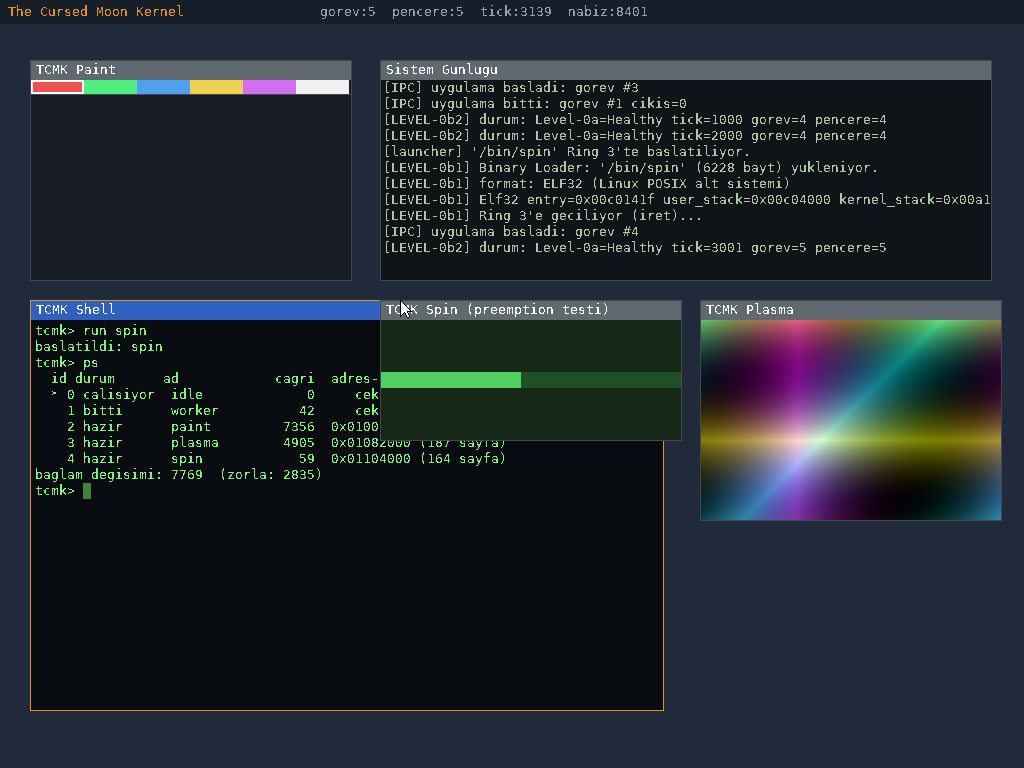
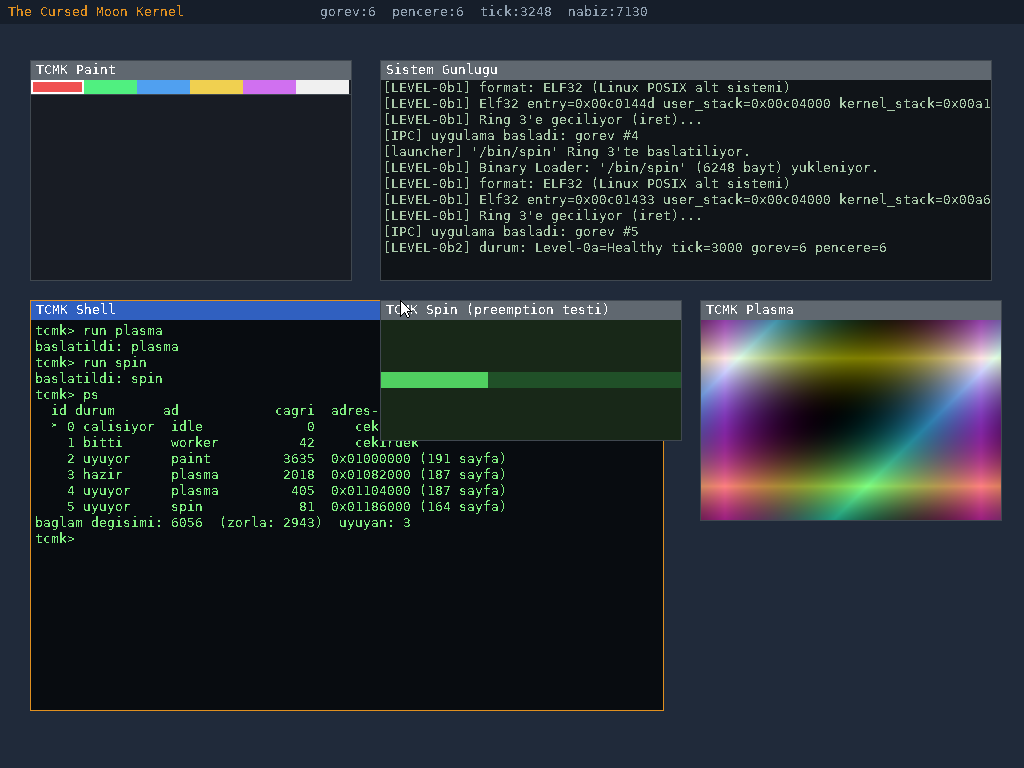
Uyku durumu: TaskState::Blocked + sleep(ms) sistem cagrisi
Preemption CPU'yu adil bolusturuyor ama uygulamalarin ISTEMEDIGI zamani
geri vermiyordu: sadece `flush` cagiran bir GUI dongusu sirasi geldiginde
hemen bir kare daha ciziyor, yani ekranin yenilenme hizindan bagimsiz
olarak CPU'yu dolduruyordu. Dort uygulama acikken sistem kalici olarak
%100'du.

  TaskState::Blocked + Task.wake_tick
  scheduler::sleep_ticks(ticks)
  SYS_SLEEP = 0x508  (arg1 = ms; PIT 100 Hz -> cozunurluk 10 ms)
  tcmk::sys::sleep_ms / Window::frame(ms)

Uyuyan gorev pick_next tarafindan HIC secilmez; suresi dolunca
wake_expired onu yeniden hazir yapar. Uyandirmayi secim aninda yapmak
ayri bir zamanlayici kuyruguna gerek birakmiyor -- gorev sayisi kucuk
oldugu icin dogrusal tarama kuyruk yonetiminden ucuz. Karsilastirma
fark uzerinden yapiliyor, boylece tick sayaci sarsa da dogru calisiyor.

Idle gorevi uyutulmaz: masaustu dongusudur ve uyanacak baska gorev
kalmadiginda sistemi ilerletecek tek akistir. sleep_ticks'in dongusu de
bu garantiye dayanir -- idle her zaman hazir oldugu icin yield_now
mutlaka baska bir goreve gecer.

Uygulamalar `win.frame(30)` kullaniyor (flush + uyku). Tek istisna
/bin/hog: amaci acgozlu olmak oldugu icin bilerek uyumadan `flush`
cagirmayi surduruyor -- Yuk Dengeleyici gosterimi bozulmasin.

DOGRULAMA (QEMU): paint + iki plasma + spin es zamanli; `ps` uc gorevi
"uyuyor" gosteriyor, 2943 zorla baglam degisimi, istisna yok.

Claude-Session: https://claude.ai/code/session_01UZRYuhR6jeHUmALXvDcHvv

diff --git a/kernel/src/level0a/core/scheduler.rs b/kernel/src/level0a/core/scheduler.rs
@@ -23,6 +23,8 @@ pub enum TaskState {
     Unused,
     Ready,
     Running,
+    /// Belirli bir PIT tick'ine kadar zamanlanmaz (`sleep`).
+    Blocked,
     Terminated,
 }
 
@@ -44,6 +46,8 @@ pub struct Task {
     /// Baglam degisiminde yuklenir; boylece her Ring 3 sureci kendi
     /// kullanici bellegini gorur (bkz. `core::mmu`).
     pub address_space: usize,
+    /// `Blocked` iken: bu PIT tick'inde uyandirilir.
+    pub wake_tick: u32,
 }
 
 impl Task {
@@ -56,6 +60,7 @@ impl Task {
             user_resume: 0,
             in_user_mode: false,
             address_space: 0,
+            wake_tick: 0,
         }
     }
 }
@@ -108,6 +113,7 @@ pub fn spawn(name: &'static str, entry: extern "C" fn() -> !) -> Option<usize> {
         (*tasks.add(index)).user_resume = 0;
         (*tasks.add(index)).in_user_mode = false;
         (*tasks.add(index)).address_space = 0;
+        (*tasks.add(index)).wake_tick = 0;
 
         TASK_COUNT.store(index + 1, Ordering::Relaxed);
         Some(index)
@@ -244,6 +250,7 @@ pub fn terminate_current() -> ! {
 
 fn pick_next(current: usize) -> usize {
     let count = TASK_COUNT.load(Ordering::Relaxed);
+    wake_expired(count);
     unsafe {
         let tasks = core::ptr::addr_of!(TASKS) as *const Task;
         for offset in 1..=count {
@@ -254,6 +261,76 @@ fn pick_next(current: usize) -> usize {
         }
     }
     current
+}
+
+/// Suresi dolan uyuyan gorevleri hazir hale getirir.
+///
+/// Uyandirmayi **secim aninda** yapmak, ayri bir zamanlayici kuyruguna
+/// gerek birakmaz: gorev sayisi kucuk oldugu icin dogrusal tarama
+/// kuyruk yonetiminden ucuzdur ve zaman kaymasi olusturmaz.
+fn wake_expired(count: usize) {
+    let now = crate::level0a::pit::ticks();
+    unsafe {
+        let tasks = core::ptr::addr_of_mut!(TASKS) as *mut Task;
+        for i in 0..count {
+            let task = &mut *tasks.add(i);
+            if task.state != TaskState::Blocked {
+                continue;
+            }
+            // Tick sayaci sarsa bile dogru calissin diye fark uzerinden
+            // karsilastirilir.
+            if now.wrapping_sub(task.wake_tick) < 0x8000_0000 {
+                task.state = TaskState::Ready;
+            }
+        }
+    }
+}
+
+/// Calisan gorevi `ticks` PIT tik'i boyunca uykuya alir.
+///
+/// Uyuyan gorev `pick_next` tarafindan **atlanir**; suresi dolunca
+/// `wake_expired` onu yeniden hazir yapar. Idle gorevi uyutulmaz --
+/// masaustu dongusudur ve her zaman kosabilir olmalidir, ayrica uyanacak
+/// baska gorev kalmadiginda sistemi ilerletecek tek akis odur.
+pub fn sleep_ticks(ticks: u32) {
+    let current = CURRENT.load(Ordering::Relaxed);
+    if current == 0 || ticks == 0 {
+        yield_now();
+        return;
+    }
+
+    let wake = crate::level0a::pit::ticks().wrapping_add(ticks);
+    crate::arch::cpu::without_interrupts(|| unsafe {
+        let tasks = core::ptr::addr_of_mut!(TASKS) as *mut Task;
+        (*tasks.add(current)).wake_tick = wake;
+        (*tasks.add(current)).state = TaskState::Blocked;
+    });
+
+    // Idle her zaman hazir oldugu icin `yield_now` mutlaka baska bir
+    // goreve gecer; bu dongu ancak uyandirildiktan sonra kirilir.
+    loop {
+        yield_now();
+        let now = crate::level0a::pit::ticks();
+        if now.wrapping_sub(wake) < 0x8000_0000 {
+            break;
+        }
+    }
+
+    crate::arch::cpu::without_interrupts(|| unsafe {
+        let tasks = core::ptr::addr_of_mut!(TASKS) as *mut Task;
+        (*tasks.add(current)).state = TaskState::Running;
+    });
+}
+
+/// Kac gorev su an uyuyor (kabuk raporu icin).
+pub fn sleeping_count() -> usize {
+    let count = TASK_COUNT.load(Ordering::Relaxed);
+    unsafe {
+        let tasks = core::ptr::addr_of!(TASKS) as *const Task;
+        (0..count)
+            .filter(|i| (*tasks.add(*i)).state == TaskState::Blocked)
+            .count()
+    }
 }
 
 /// Calisan gorevin numarasi. Level-0b2'nin Yuk Dengeleyicisi cagrilari

diff --git a/userland-rs/src/gui.rs b/userland-rs/src/gui.rs
@@ -167,10 +167,21 @@ impl Window {
     }
 
     /// Kareyi bitirir ve CPU'yu birakir. Kompozitor zaten her karede
-    /// cizdigi icin bu cagri bir "sunum" degil, **zamanlama noktasidir**:
-    /// isbirlikci scheduler'da diger uygulamalarin kosmasini saglar.
+    /// cizdigi icin bu cagri bir "sunum" degil, **zamanlama noktasidir**.
     pub fn flush(&self) {
         unsafe { sys::syscall1(sys::SYS_WIN_FLUSH, self.id) };
+    }
+
+    /// Kareyi bitirir ve bir sonraki kareye kadar **uyur**.
+    ///
+    /// `flush`'tan farki: uyuyan gorev zamanlayici tarafindan hic
+    /// secilmez. Sadece `flush` kullanan bir uygulama, sirasi geldiginde
+    /// hemen bir kare daha cizer -- yani ekranin yenilenme hizindan
+    /// bagimsiz olarak CPU'yu doldurur. `frame(30)` ile 30 ms'lik bir
+    /// kare butcesi verilir.
+    pub fn frame(&self, ms: usize) {
+        unsafe { sys::syscall1(sys::SYS_WIN_FLUSH, self.id) };
+        sys::sleep_ms(ms);
     }
 
     /// Fareyi pencere ic koordinatlarina cevirir; pencere disindaysa None.

diff --git a/kernel/src/level0b1/linux_subsystem/posix_syscalls.rs b/kernel/src/level0b1/linux_subsystem/posix_syscalls.rs
@@ -30,6 +30,7 @@ pub const SYS_WIN_POLL_KEY: u32 = 0x504;
 pub const SYS_MOUSE_STATE: u32 = 0x505;
 pub const SYS_YIELD: u32 = 0x506;
 pub const SYS_WIN_POS: u32 = 0x507;
+pub const SYS_SLEEP: u32 = 0x508;
 
 // Linux syscall numaralari MIMARIYE GORE DEGISIR -- ayni isim, farkli sayi.
 // Bunu tek bir kumeyle gecistirmek Faz 4'te gercek bir hataya yol acti:
@@ -169,6 +170,14 @@ pub fn dispatch(frame: &mut SyscallFrame) {
         }
         SYS_YIELD => {
             crate::level0a::core::scheduler::yield_now();
+            frame.set_return(0);
+            return;
+        }
+        SYS_SLEEP => {
+            // arg1 = milisaniye. PIT 100 Hz oldugu icin cozunurluk 10 ms;
+            // sifirdan buyuk her istek en az bir tik surer.
+            let ticks = ((arg1 as u32) / 10).max(1);
+            crate::level0a::core::scheduler::sleep_ticks(ticks);
             frame.set_return(0);
             return;
         }

diff --git a/userland-rs/src/sys.rs b/userland-rs/src/sys.rs
@@ -24,6 +24,7 @@ pub const SYS_WIN_POLL_KEY: usize = 0x504;
 pub const SYS_MOUSE_STATE: usize = 0x505;
 pub const SYS_YIELD: usize = 0x506;
 pub const SYS_WIN_POS: usize = 0x507;
+pub const SYS_SLEEP: usize = 0x508;
 
 pub const STDIN: usize = 0;
 pub const STDOUT: usize = 1;
@@ -118,7 +119,16 @@ pub fn brk(new: usize) -> usize {
     unsafe { syscall1(SYS_BRK, new) }
 }
 
-/// CPU'yu gonullu olarak birakir -- kooperatif scheduler'in dondugu nokta.
+/// CPU'yu gonullu olarak birakir.
 pub fn yield_now() {
     unsafe { syscall0(SYS_YIELD) };
+}
+
+/// Sureci en az `ms` milisaniye uyutur.
+///
+/// `yield`'den farki: uyuyan gorev zamanlayici tarafindan **hic
+/// secilmez**, dolayisiyla CPU'yu gercekten birakir. Cozunurluk PIT
+/// hizina baglidir (100 Hz -> 10 ms).
+pub fn sleep_ms(ms: usize) {
+    unsafe { syscall1(SYS_SLEEP, ms) };
 }

diff --git a/kernel/src/level0a/shell.rs b/kernel/src/level0a/shell.rs
@@ -198,6 +198,7 @@ fn state_name(state: scheduler::TaskState) -> &'static str {
         scheduler::TaskState::Unused => "bos",
         scheduler::TaskState::Ready => "hazir",
         scheduler::TaskState::Running => "calisiyor",
+        scheduler::TaskState::Blocked => "uyuyor",
         scheduler::TaskState::Terminated => "bitti",
     }
 }
@@ -263,7 +264,9 @@ fn execute(line: &str) {
             write_num(scheduler::switch_count());
             write_str("  (zorla: ");
             write_num(scheduler::preemptions());
-            write_line(")");
+            write_str(")  uyuyan: ");
+            write_num(scheduler::sleeping_count());
+            newline();
         }
         "top" => {
             write_str("son saniye -- kota ");

diff --git a/userland-rs/src/bin/crash.rs b/userland-rs/src/bin/crash.rs
@@ -40,7 +40,7 @@ fn main() {
         if win.poll_key() == b'q' {
             return; // temiz cikis: cokme testinden vazgecildi
         }
-        win.flush();
+        win.frame(30);
     }
 
     // --- Kasitli ihlal ---
@@ -52,6 +52,6 @@ fn main() {
     // Buraya ulasilirsa izolasyon KIRILMIS demektir.
     win.clear(0x00FF_00FF);
     loop {
-        win.flush();
+        win.frame(30);
     }
 }

diff --git a/userland-rs/src/bin/spin.rs b/userland-rs/src/bin/spin.rs
@@ -41,7 +41,7 @@ fn main() {
             break;
         }
         frame += 1;
-        win.flush();
+        win.frame(30);
 
         // --- Saf hesap: syscall yok, yield yok ---
         let mut acc = frame;

diff --git a/userland-rs/src/bin/hog.rs b/userland-rs/src/bin/hog.rs
@@ -55,6 +55,7 @@ fn main() {
         }
 
         frame += 1;
+        // Bilerek `flush` (uyku YOK): bu uygulamanin amaci acgozlu olmak.
         win.flush();
     }
 }

diff --git a/userland-rs/src/bin/plasma.rs b/userland-rs/src/bin/plasma.rs
@@ -54,6 +54,6 @@ fn main() {
         }
 
         frame = frame.wrapping_add(3);
-        win.flush();
+        win.frame(30);
     }
 }

diff --git a/userland-rs/src/bin/paint.rs b/userland-rs/src/bin/paint.rs
@@ -77,7 +77,7 @@ fn main() {
             }
         }
 
-        win.flush();
+        win.frame(20);
     }
 }
 

diff --git a/README.md b/README.md
@@ -81,6 +81,7 @@ POSIX/NT'de karsiligi olmayan islevler icin `0x500+` araligi ayrildi:
 | 0x505 | `mouse_state()` | fare konumu + tus durumu |
 | 0x506 | `yield()` | CPU'yu birak (pencere gerektirmez) |
 | 0x507 | `win_pos(id)` | (x<<16)\|y -- pencere suruklendiginde tazelenir |
+| 0x508 | `sleep(ms)` | sureci uyut (zamanlayici hic secmez) |
 
 Pencere tamponu **yalnizca sahibinin** adres uzayina eslenir (bkz. "Surec
 basina adres uzayi"); uygulama piksellerini kendisi yazar, cekirdek
@@ -574,6 +575,40 @@ hala hizmet bekler ve bir daha IRQ0 gelmez), sonra
 
 Kesme kapisi IF=0 ile girildigi icin ic ice preemption olmaz;
 `without_interrupts` bolgeleri de dogal olarak korunur.
+
+### Uyku: `TaskState::Blocked`
+
+Preemption CPU'yu adil bolusturur ama uygulamalarin **istemedigi** zamani
+geri vermez: sadece `flush` cagiran bir GUI dongusu sirasi geldiginde
+hemen bir kare daha cizer, yani ekranin yenilenme hizindan bagimsiz olarak
+CPU'yu doldurur.
+
+`sleep` (0x508) bunu kapatir. Uyuyan gorev `pick_next` tarafindan **hic
+secilmez**; suresi dolunca `wake_expired` onu yeniden hazir yapar.
+Uyandirmayi secim aninda yapmak ayri bir zamanlayici kuyruguna gerek
+birakmiyor -- gorev sayisi kucuk oldugu icin dogrusal tarama kuyruk
+yonetiminden ucuz.
+
+Userland tarafinda tek satir:
+
+```rust
+win.frame(30);   // flush + 30 ms uyku
+```
+
+```
+tcmk> ps
+   id durum      ad            cagri  adres-uzayi
+    2 uyuyor     paint          3635  0x01000000 (191 sayfa)
+    3 hazir      plasma         2018  0x01082000 (187 sayfa)
+    4 uyuyor     plasma          405  0x01104000 (187 sayfa)
+    5 uyuyor     spin             81  0x01186000 (164 sayfa)
+baglam degisimi: 6056  (zorla: 2943)  uyuyan: 3
+```
+
+Idle gorevi uyutulmaz: masaustu dongusudur ve uyanacak baska gorev
+kalmadiginda sistemi ilerletecek tek akistir. `sleep_ticks`'in dongusu de
+bu garantiye dayanir -- idle her zaman hazir oldugu icin `yield_now`
+mutlaka baska bir goreve gecer.
 
 ### Bolunemez isler: `preempt_disable`
 
